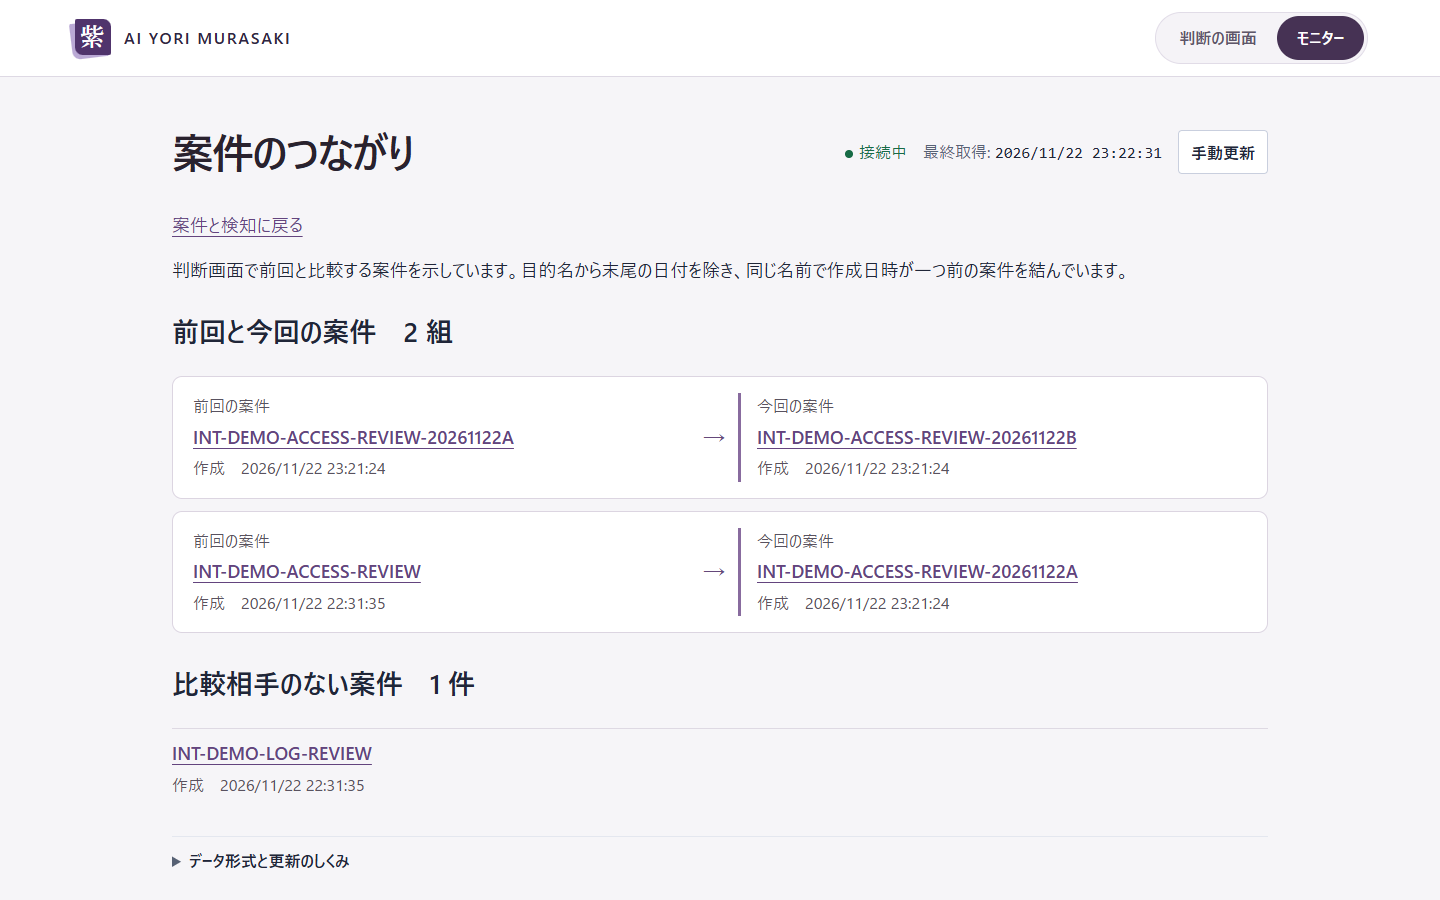
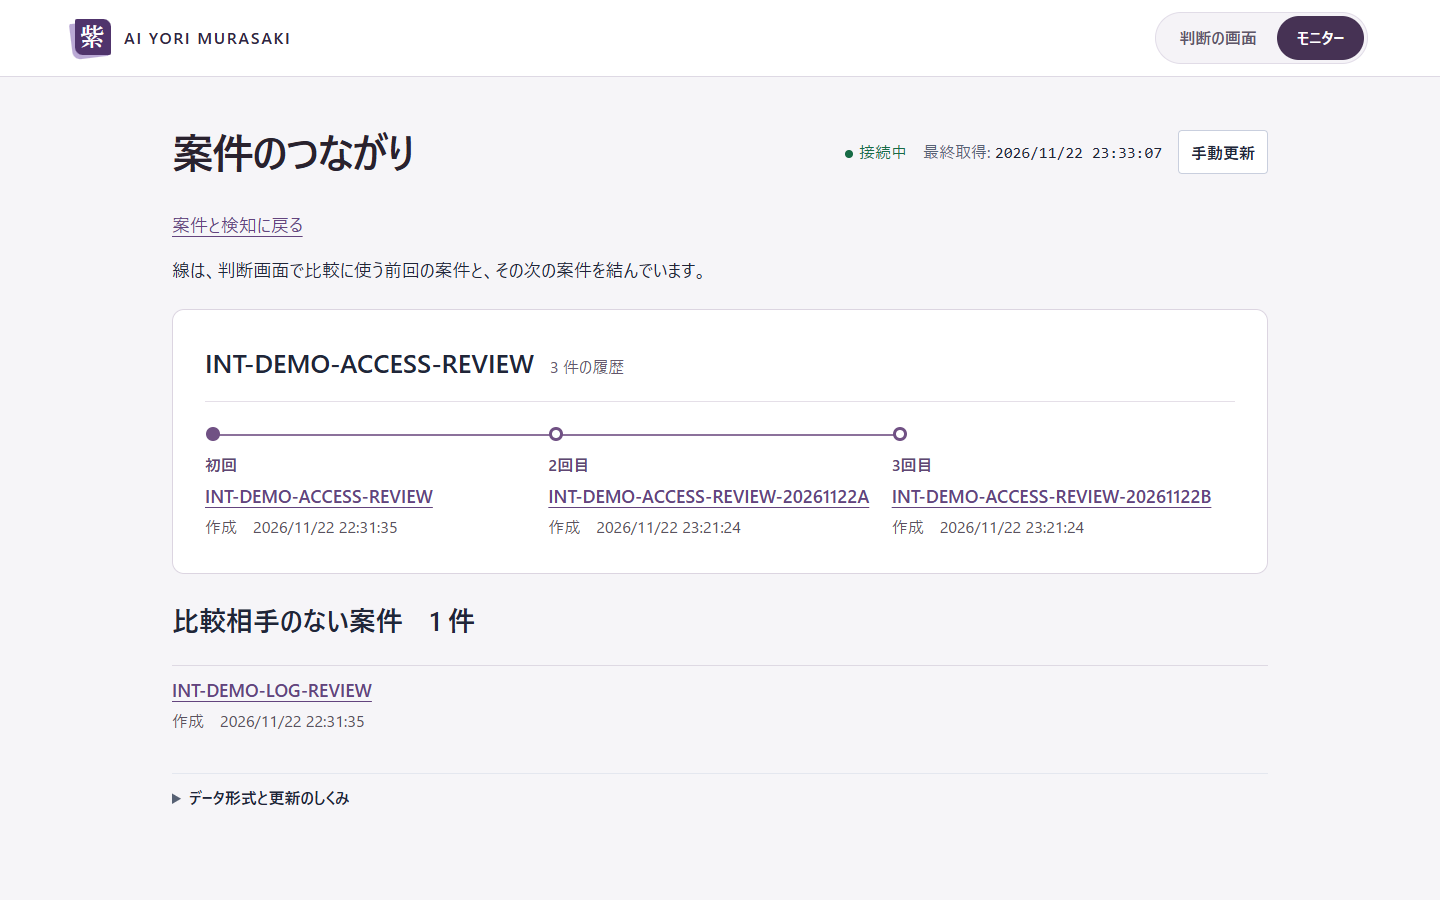
案件の履歴を初回から続く線で表示する

diff --git a/ai_yori_murasaki/web/index.html b/ai_yori_murasaki/web/index.html
@@ -421,18 +421,32 @@ body[data-screen="relations"] main { padding: clamp(20px,3.4vw,48px) clamp(16px,
 .relation-back, .relation-case { text-decoration: underline; text-underline-offset: 4px; }
 .relation-back { display: inline-flex; align-items: center; min-height: 44px; }
 .relation-list { list-style: none; padding: 0; margin: 12px 0 28px; display: grid; gap: 12px; }
-.relation-pair { display: grid; grid-template-columns: minmax(0,1fr) 2em minmax(0,1fr); align-items: center; padding: 16px 20px; background: #fff; border: 1px solid #dcd5e1; border-radius: 10px; }
+.history-sheet { margin: 0 0 24px; padding: clamp(16px,3vw,32px); border: 1px solid #dcd5e1; border-radius: 12px; background: #fff; }
+.history-head { display: flex; flex-wrap: wrap; align-items: baseline; gap: 4px 16px; padding-bottom: 16px; margin-bottom: 20px; border-bottom: 1px solid #e5dfe8; }
+.history-head h2 { margin: 0; font-size: clamp(19px,2vw,26px); overflow-wrap: anywhere; }
+.history-count { color: #65586d; font-size: 16px; }
+.history-steps { list-style: none; padding: 0; margin: 0; }
+.history-step { position: relative; min-width: 0; padding: 0 0 22px 32px; }
+.history-step:last-child { padding-bottom: 0; }
+.history-step:not(:last-child)::before { content: ""; position: absolute; left: 7px; top: 12px; bottom: -12px; border-left: 2px solid #8c719b; }
+.history-branch { margin-top: 12px; }
+.history-branch > li:first-child::after { content: ""; position: absolute; left: -24px; top: 12px; width: 32px; border-top: 2px solid #8c719b; }
+.history-dot { position: absolute; z-index: 1; top: 5px; left: 1px; width: 14px; height: 14px; border: 3px solid #705184; background: #fff; border-radius: 50%; }
+.history-sheet > .history-steps > li:first-child > .relation-case > .history-dot { background: #705184; }
+.relation-case[aria-current] .history-dot { box-shadow: 0 0 0 3px #dfd2e8; }
+.history-phase { color: #604673; font-size: 16px; font-weight: 700; }
+.history-phase small { margin-left: 8px; font-size: 14px; color: #493451; }
+.history-fork-label { font-size: 16px; color: #604673; margin: 8px 0 0; }
+@media(min-width: 800px) {
+  .history-short { display: flex; }
+  .history-short > li { flex: 1 1 0; padding: 30px 16px 0 0; }
+  .history-short > li:not(:last-child)::before { left: 8px; right: -8px; top: 12px; bottom: auto; border: 0; border-top: 2px solid #8c719b; }
+}
 .relation-case { display: grid; align-content: center; min-height: 44px; min-width: 0; gap: 3px; overflow-wrap: anywhere; }
-.relation-link-role, .relation-case time { font-size: 16px; font-weight: 400; color: #595260; }
+.relation-case time { font-size: 16px; font-weight: 400; color: #595260; }
 .relation-case { text-decoration: none; }
 .relation-case strong { text-decoration: underline; text-underline-offset: 4px; }
-.relation-arrow { color: #65487a; font-size: 24px; }
 .relation-single { border-top: 1px solid #ded9e3; padding: 10px 0; }
-.relation-pair .relation-case:last-child { border-inline-start: 3px solid #886b9e; padding-inline-start: 16px; }
-@media(max-width: 660px) {
-  .relation-pair { grid-template-columns: 1fr; gap: 4px; padding: 12px 16px; }
-  .relation-arrow { transform: rotate(90deg); transform-origin: center; width: 1em; text-align: center; }
-}
 body[data-screen="list"] .layout { display: block; max-width: 1440px; }
 body[data-screen="list"] .sidebar { display: none; }
 body[data-screen="list"] main { padding: clamp(24px,3.4vw,48px) clamp(16px,5vw,72px) 64px; }
@@ -1786,7 +1800,7 @@ body[data-screen="list"] #desk-sources { display: inline-flex; align-items: cent
         if (!data || !Array.isArray(data.campaigns) || data.campaigns.some(function (c) {
           return !c || typeof c.campaign_id !== 'string' || !/^[a-z0-9][a-z0-9-]{0,63}$/.test(c.campaign_id);
         })) throw new Error('案件の応答形式が不正です。');
-        state.detail = data.campaigns;
+        state.detail = campaignHistories(data.campaigns);
         state.detailError = null;
       }
       render();
@@ -1798,10 +1812,56 @@ body[data-screen="list"] #desk-sources { display: inline-flex; align-items: cent
     });
   }
 
-  function relationCase(c, label) {
+  function campaignHistories(cases) {
+    var byId = new Map();
+    var roots = [];
+    cases.forEach(function (c) {
+      byId.set(c.campaign_id, { record:c, children:[], count:1, latest:c.created_at || '' });
+    });
+    if (byId.size !== cases.length) throw new Error('案件IDが重複しています。');
+    byId.forEach(function (node) {
+      var parent = node.record.previous_id;
+      if (parent == null) roots.push(node);
+      else if (byId.has(parent)) byId.get(parent).children.push(node);
+      else throw new Error('比較元の案件が見つかりません。');
+    });
+    var order = roots.slice();
+    for (var i = 0; i < order.length; i++) {
+      var node = order[i];
+      node.root = node.root || node;
+      node.children.forEach(function (child) { child.root = node.root; order.push(child); });
+    }
+    if (order.length !== cases.length) throw new Error('案件の比較元が循環しています。');
+    // 後続の案件が最も多い側を幹に置き、他の枝は実際の比較元から引く。
+    for (var j = order.length - 1; j >= 0; j--) {
+      var entry = order[j];
+      entry.children.forEach(function (child) {
+        entry.count += child.count;
+        if (child.latest > entry.latest) entry.latest = child.latest;
+      });
+      entry.children.sort(function (a,b) {
+        return b.count - a.count || a.record.campaign_id.localeCompare(b.record.campaign_id);
+      });
+    }
+    roots.sort(function (a,b) { return b.latest.localeCompare(a.latest); });
+    return { byId:byId, roots:roots };
+  }
+
+  function relationCase(c, ordinal, selectedId) {
     var link = text('a', null, 'relation-case');
     link.href = '#/campaign/' + encodeURIComponent(c.campaign_id);
-    if (label) link.appendChild(text('span', label, 'relation-link-role'));
+    link.setAttribute('data-key', 'relation-link-' + c.campaign_id);
+    if (ordinal) {
+      var dot = text('span', null, 'history-dot');
+      dot.setAttribute('aria-hidden','true');
+      link.appendChild(dot);
+      var phase = text('span', ordinal === 1 ? '初回' : ordinal + '回目', 'history-phase');
+      if (c.campaign_id === selectedId) {
+        phase.appendChild(text('small', '選択中'));
+        link.setAttribute('aria-current','true');
+      }
+      link.appendChild(phase);
+    }
     var name = text('strong');
     name.appendChild(orUnrecorded(c.intent_id || c.campaign_id));
     link.appendChild(name);
@@ -1809,6 +1869,46 @@ body[data-screen="list"] #desk-sources { display: inline-flex; align-items: cent
     if (c.created_at) when.dateTime = c.created_at;
     link.appendChild(when);
     return link;
+  }
+
+  function historySheet(root, selectedId) {
+    var sheet = text('section', null, 'history-sheet');
+    sheet.setAttribute('data-key','history-' + root.record.campaign_id);
+    var head = text('div', null, 'history-head');
+    var name = root.record.intent_id || root.record.campaign_id;
+    head.appendChild(text('h2', name.replace(/-\d{8}[A-Z]?$/, '') || name));
+    head.appendChild(text('span', root.count + ' 件の履歴', 'history-count'));
+    sheet.appendChild(head);
+    var steps = text('ol', null, 'history-steps');
+    steps.setAttribute('aria-label','比較元から順に並べた案件');
+    sheet.appendChild(steps);
+    var pending = [{ node:root, ordinal:1, list:steps }];
+    var branched = false;
+    while (pending.length) {
+      var track = pending.pop();
+      var node = track.node;
+      var ordinal = track.ordinal;
+      while (node) {
+        var row = text('li', null, 'history-step');
+        row.setAttribute('data-key', 'step-' + node.record.campaign_id);
+        row.appendChild(relationCase(node.record, ordinal, selectedId));
+        track.list.appendChild(row);
+        if (node.children.length > 1) {
+          branched = true;
+          row.appendChild(text('p', 'ここから ' + node.children.length + ' 件に分岐', 'history-fork-label'));
+          node.children.slice(1).forEach(function (child) {
+            var branch = text('ol', null, 'history-steps history-branch');
+            branch.setAttribute('aria-label', (node.record.intent_id || node.record.campaign_id) + ' からの分岐');
+            row.appendChild(branch);
+            pending.push({ node:child, ordinal:ordinal + 1, list:branch });
+          });
+        }
+        ordinal++;
+        node = node.children[0];
+      }
+    }
+    if (!branched && root.count <= 4) steps.classList.add('history-short');
+    return sheet;
   }
 
   function renderRelations() {
@@ -1828,40 +1928,21 @@ body[data-screen="list"] #desk-sources { display: inline-flex; align-items: cent
       if (!state.detailError) intro.appendChild(text('p', '案件のつながりを読み込んでいます。'));
       return view;
     }
-    var cases = state.detail;
-    var byId = new Map(cases.map(function (c) { return [c.campaign_id, c]; }));
-    if (id && !byId.has(id)) { intro.appendChild(text('p', '指定された案件は一覧にありません。')); return view; }
-    if (!cases.length) { intro.appendChild(text('p', '案件はまだありません。')); return view; }
-    if (id) intro.appendChild(text('h2', byId.get(id).intent_id || id));
-    intro.appendChild(text('p', '判断画面で前回と比較する案件を示しています。目的名から末尾の日付を除き、同じ名前で作成日時が一つ前の案件を結んでいます。'));
-    var links = cases.filter(function (c) {
-      return byId.has(c.previous_id) && (!id || c.campaign_id === id || c.previous_id === id);
-    }).sort(function (a,b) { return (b.created_at || '').localeCompare(a.created_at || ''); });
-    var paired = new Set();
-    if (links.length) {
-      view.appendChild(text('h2', '前回と今回の案件　' + links.length + ' 組'));
-      var list = text('ul', null, 'relation-list');
-      links.forEach(function (c) {
-        var row = text('li', null, 'relation-pair');
-        row.setAttribute('data-key','pair-' + c.campaign_id);
-        row.appendChild(relationCase(byId.get(c.previous_id), '前回の案件'));
-        var arrow = text('span', '→', 'relation-arrow');
-        arrow.setAttribute('aria-hidden','true');
-        row.appendChild(arrow);
-        row.appendChild(relationCase(c, '今回の案件'));
-        paired.add(c.previous_id);
-        paired.add(c.campaign_id);
-        list.appendChild(row);
-      });
-      view.appendChild(list);
-    }
-    var singles = cases.filter(function (c) { return (!id || c.campaign_id === id) && !paired.has(c.campaign_id); });
+    var history = state.detail;
+    if (id && !history.byId.has(id)) { intro.appendChild(text('p', '指定された案件は一覧にありません。')); return view; }
+    if (!history.roots.length) { intro.appendChild(text('p', '案件はまだありません。')); return view; }
+    var roots = id ? [history.byId.get(id).root] : history.roots;
+    intro.appendChild(text('p', '線は、判断画面で比較に使う前回の案件と、その次の案件を結んでいます。'));
+    roots.forEach(function (root) {
+      if (root.count > 1) view.appendChild(historySheet(root, id));
+    });
+    var singles = roots.filter(function (root) { return root.count === 1; });
     if (singles.length) {
       view.appendChild(text('h2', '比較相手のない案件　' + singles.length + ' 件'));
       var rest = text('ul', null, 'relation-list');
-      singles.forEach(function (c) {
+      singles.forEach(function (node) {
         var row = text('li', null, 'relation-single');
-        row.appendChild(relationCase(c));
+        row.appendChild(relationCase(node.record));
         rest.appendChild(row);
       });
       view.appendChild(rest);

diff --git a/docs/tasks/TASK.frontend-review-11-22-2026.md b/docs/tasks/TASK.frontend-review-11-22-2026.md
@@ -17,7 +17,7 @@ next_review_due: 2026-12-22
 
 | 利用場面 | 改修前に確認した問題 | 受入条件 |
 | --- | --- | --- |
-| 案件どうしの関係を調べる | 前回との比較が課題の増減としてしか見えず、元の案件を一覧から追えなかった | 前回と今回の案件名と作成日時を並べ、両方の記録を開ける。単独の案件、案件を指定した表示、全案件の一覧を確認できる |
+| 案件どうしの関係を調べる | 前回と今回のペアを個別に並べていたため、3回以上続く履歴で同じ案件が重複した | 比較元から続く案件を1件1点で結ぶ。途中の回から開いても初回と後続が見え、選択中の回が分かる。分岐は元の案件から線を引き、各回の記録を開ける |
 | 案件を選ぶ | 件数を読めても、別画面を開くまで何が検知されたか分からなかった | 一覧で選んだ案件の検知名、重大度、最終実行、件数を同じ画面で読める。390px幅では案件の選択欄、検知名、証跡への操作が上から順に見える |
 | 判断する | 件数を読んだ後、各行を開くまで次の行動が分からなかった | 判断待ちと未完了の総数、その数字を読む際の評価上の制約を冒頭に示す。判断が必要な課題には行を開く前に次の行動を添える |
 | 課題を探す | 検索欄は長い一覧の下にあり、先頭から直接移れなかった | 件数付きの「すべての課題」から、絞り込みを解除した一覧へ移れる |

diff --git a/docs/requirements/MONITOR-REDESIGN.md b/docs/requirements/MONITOR-REDESIGN.md
@@ -26,7 +26,7 @@ GLMに `ai-instructions-frontend` の本文と、layout-code・interaction・del
 - 全11指標は詳細を開いて確認する。測定の限界は概要に常時表示する。HOLD・未測定・形式不正を数値と区別する。
 - 外部フォント、画像、スクリプトへの依存は追加しない。数値やグラフを補作しない。
 
-「案件のつながり」には、判断画面の前回比較に使う案件を「前回の案件 → 今回の案件」の組で表示する。それぞれの名前から記録を開ける。相手のない案件も一覧で確認できる。判断画面からはその案件が含まれる組に移り、そこから全案件に切り替えられる。
+「案件のつながり」では、同じ履歴の案件を初回から順に一つずつ置き、比較元と次の案件を線で結ぶ。3回続いた履歴は3つの点と2本の線になる。広い画面では短い履歴を横に、狭い画面や長い履歴では縦に読む。比較元が同じ案件が複数あれば、その点から線を分岐させる。判断画面から開くと選択中の回を含む履歴全体が見え、各案件名から記録を開ける。比較相手のない案件も全件表示で確認できる。
 
 ## 自動更新
 

diff --git a/docs/acceptance/AC-20261122-01.md b/docs/acceptance/AC-20261122-01.md
@@ -18,7 +18,7 @@ release_approval_id: null
 
 ## Acceptance Criteria
 
-- [x] 「案件のつながり」で前回と今回の記録を開ける。架空の4案件で、一覧の比較元と各案件の判断画面の比較元が一致した。3案件からなる2組と比較相手のない1案件を表示し、個別表示・全件表示を往復できる。
+- [x] デモの3案件が初回・2回目・3回目の各1点でつながり、別の1案件は単独で表示される。線の向きと順序を1440・390・320pxで確認した。ブラウザー試験では途中の案件から全3回を表示でき、分岐データでは比較元から該当する枝へ線が伸びる構造になる。
 
 - [x] 判断すべき件数と未完了件数が先頭に出る。判断が必要な課題では開く前に次の行動を読み、行を開くと理由を確認できる。評価範囲の注意事項も同じ画面で読める。
 - [x] 案件一覧と検知本文を左右に並べる1440px幅でも、一列に並べる390px幅でも、案件選択で本文が切り替わる。空の案件に移ると前の検知名は消える。390×844pxの見本で証跡へのリンクが初期画面内に入る。

diff --git a/README.md b/README.md
@@ -16,7 +16,7 @@ next_review_due: 2026-12-08
 
 ## できること
 
-モニターの「案件のつながり」では、判断画面が前回との比較に使う案件を一覧で確認できます。各案件名を選ぶと、その記録が開きます。[案件のつながりの画面例](docs/evidence/frontend-20261122/relations-desktop.png)
+モニターの「案件のつながり」では、判断画面の比較元を初回から線でたどれます。途中の案件から開いても同じ履歴全体が見えます。各案件名を選ぶと、その回の記録が開きます。[案件のつながりの画面例](docs/evidence/frontend-20261122/relations-desktop.png)
 
 模擬アプリを隔離されたコンテナの中でだけ動かし、外部の実システムには影響させません。攻撃役のAIが実際にアクセスを試み、監視役のAIがアクセス記録（ログ）だけから不審なアクセスを見つけ、修復役のAIがコードを読んで原因を特定し、直し方の案を作ります。
 
